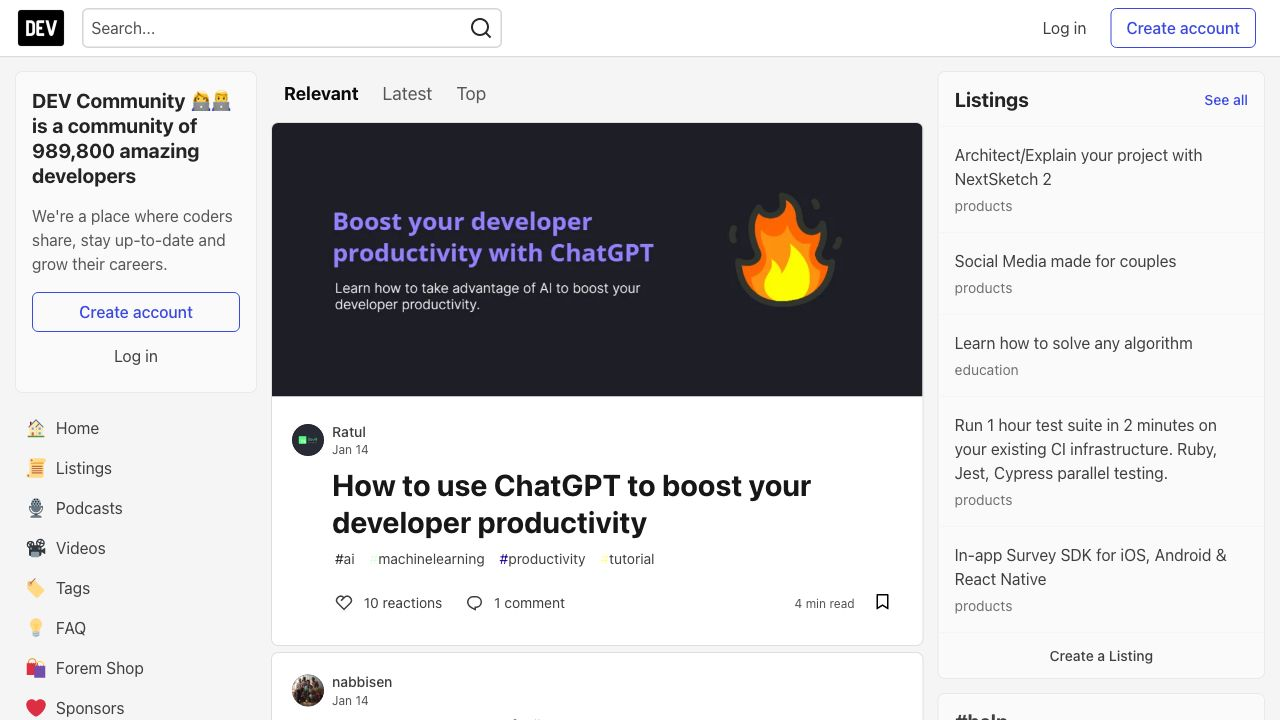
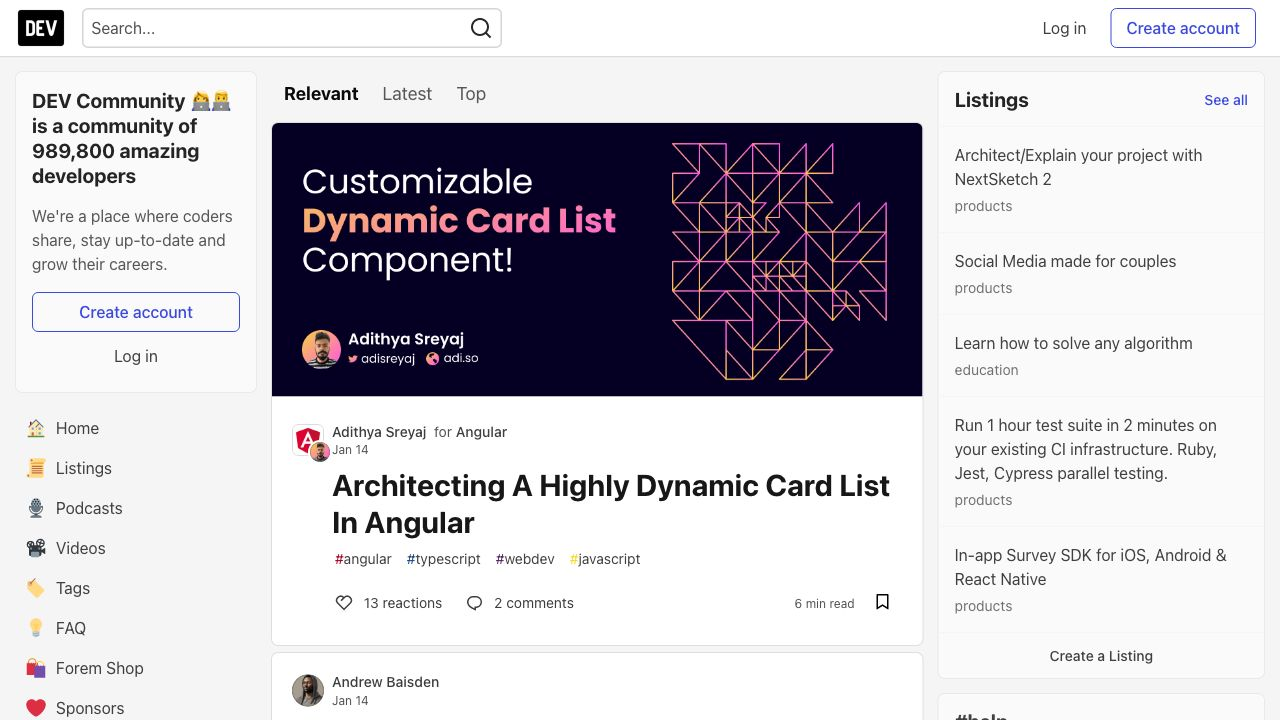
added get ss route

diff --git a/index.js b/index.js
@@ -1,47 +1,53 @@
-Object.assign(global, { components: {}, log: (...args) => console.log(...args) })
+Object.assign(global, {
+  components: {},
+  log: (...args) => console.log(...args),
+});
 
 //load env
-import dotenv from 'dotenv'
-dotenv.config()
-global.log('loaded env file')
-
+import dotenv from "dotenv";
+dotenv.config();
+global.log("loaded env file");
 
 // start server
-import Fastify from 'fastify'
-import fs from 'fs'
+import Fastify from "fastify";
+import fs from "fs";
 
-import { Puppy } from './puppy.js'
+import { Puppy } from "./puppy.js";
+import { constants } from "./utils.js";
 
-const server = Fastify({ logger: true })
+const server = Fastify({ logger: true });
 
-const constants = {
-  url: 'https://dev.to/',
-  props: { waitUntil: 'networkidle0' },
-  ss_name: 'screenshot.jpg'
-}
-
-server.get('/', async (request, reply) => {
+server.get("/get-ss", async (_request, reply) => {
   try {
-    const puppy = await Puppy.create()
-    await puppy.goto(constants.url, { props: constants.props })
-    await puppy.ss(constants.ss_name)
-    await puppy.close()
-    const stream = fs.createReadStream(constants.ss_name)
-    reply.header('Content-Type', 'image/jpg')
-    reply.send(stream)
+    const stream = fs.createReadStream("./screenshot.jpg");
+    reply.type("image/jpeg");
+    reply.send(stream);
+    return reply;
   } catch (err) {
-    console.log(err)
-    return {}
+    global.log(err);
+    throw err;
   }
+});
 
-})
+server.put("/update-ss", async () => {
+  try {
+    const puppy = await Puppy.create();
+    await puppy.goto(constants.url, { props: constants.props });
+    await puppy.ss(constants.ss_name);
+    await puppy.close();
+    return { message: "updated" };
+  } catch (err) {
+    global.log(err);
+    throw err;
+  }
+});
 
 const startListening = async () => {
   try {
-    await server.listen({ port: +process.env.PORT })
+    await server.listen({ port: +process.env.PORT });
   } catch (err) {
-    server.log.error(err)
-    process.exit(1)
+    server.log.error(err);
+    process.exit(1);
   }
-}
-startListening()
+};
+startListening();

diff --git a/utils.js b/utils.js
@@ -1,0 +1,5 @@
+export const constants = {
+  url: "https://dev.to/",
+  props: { waitUntil: "networkidle0" },
+  ss_name: "screenshot.jpg",
+};
